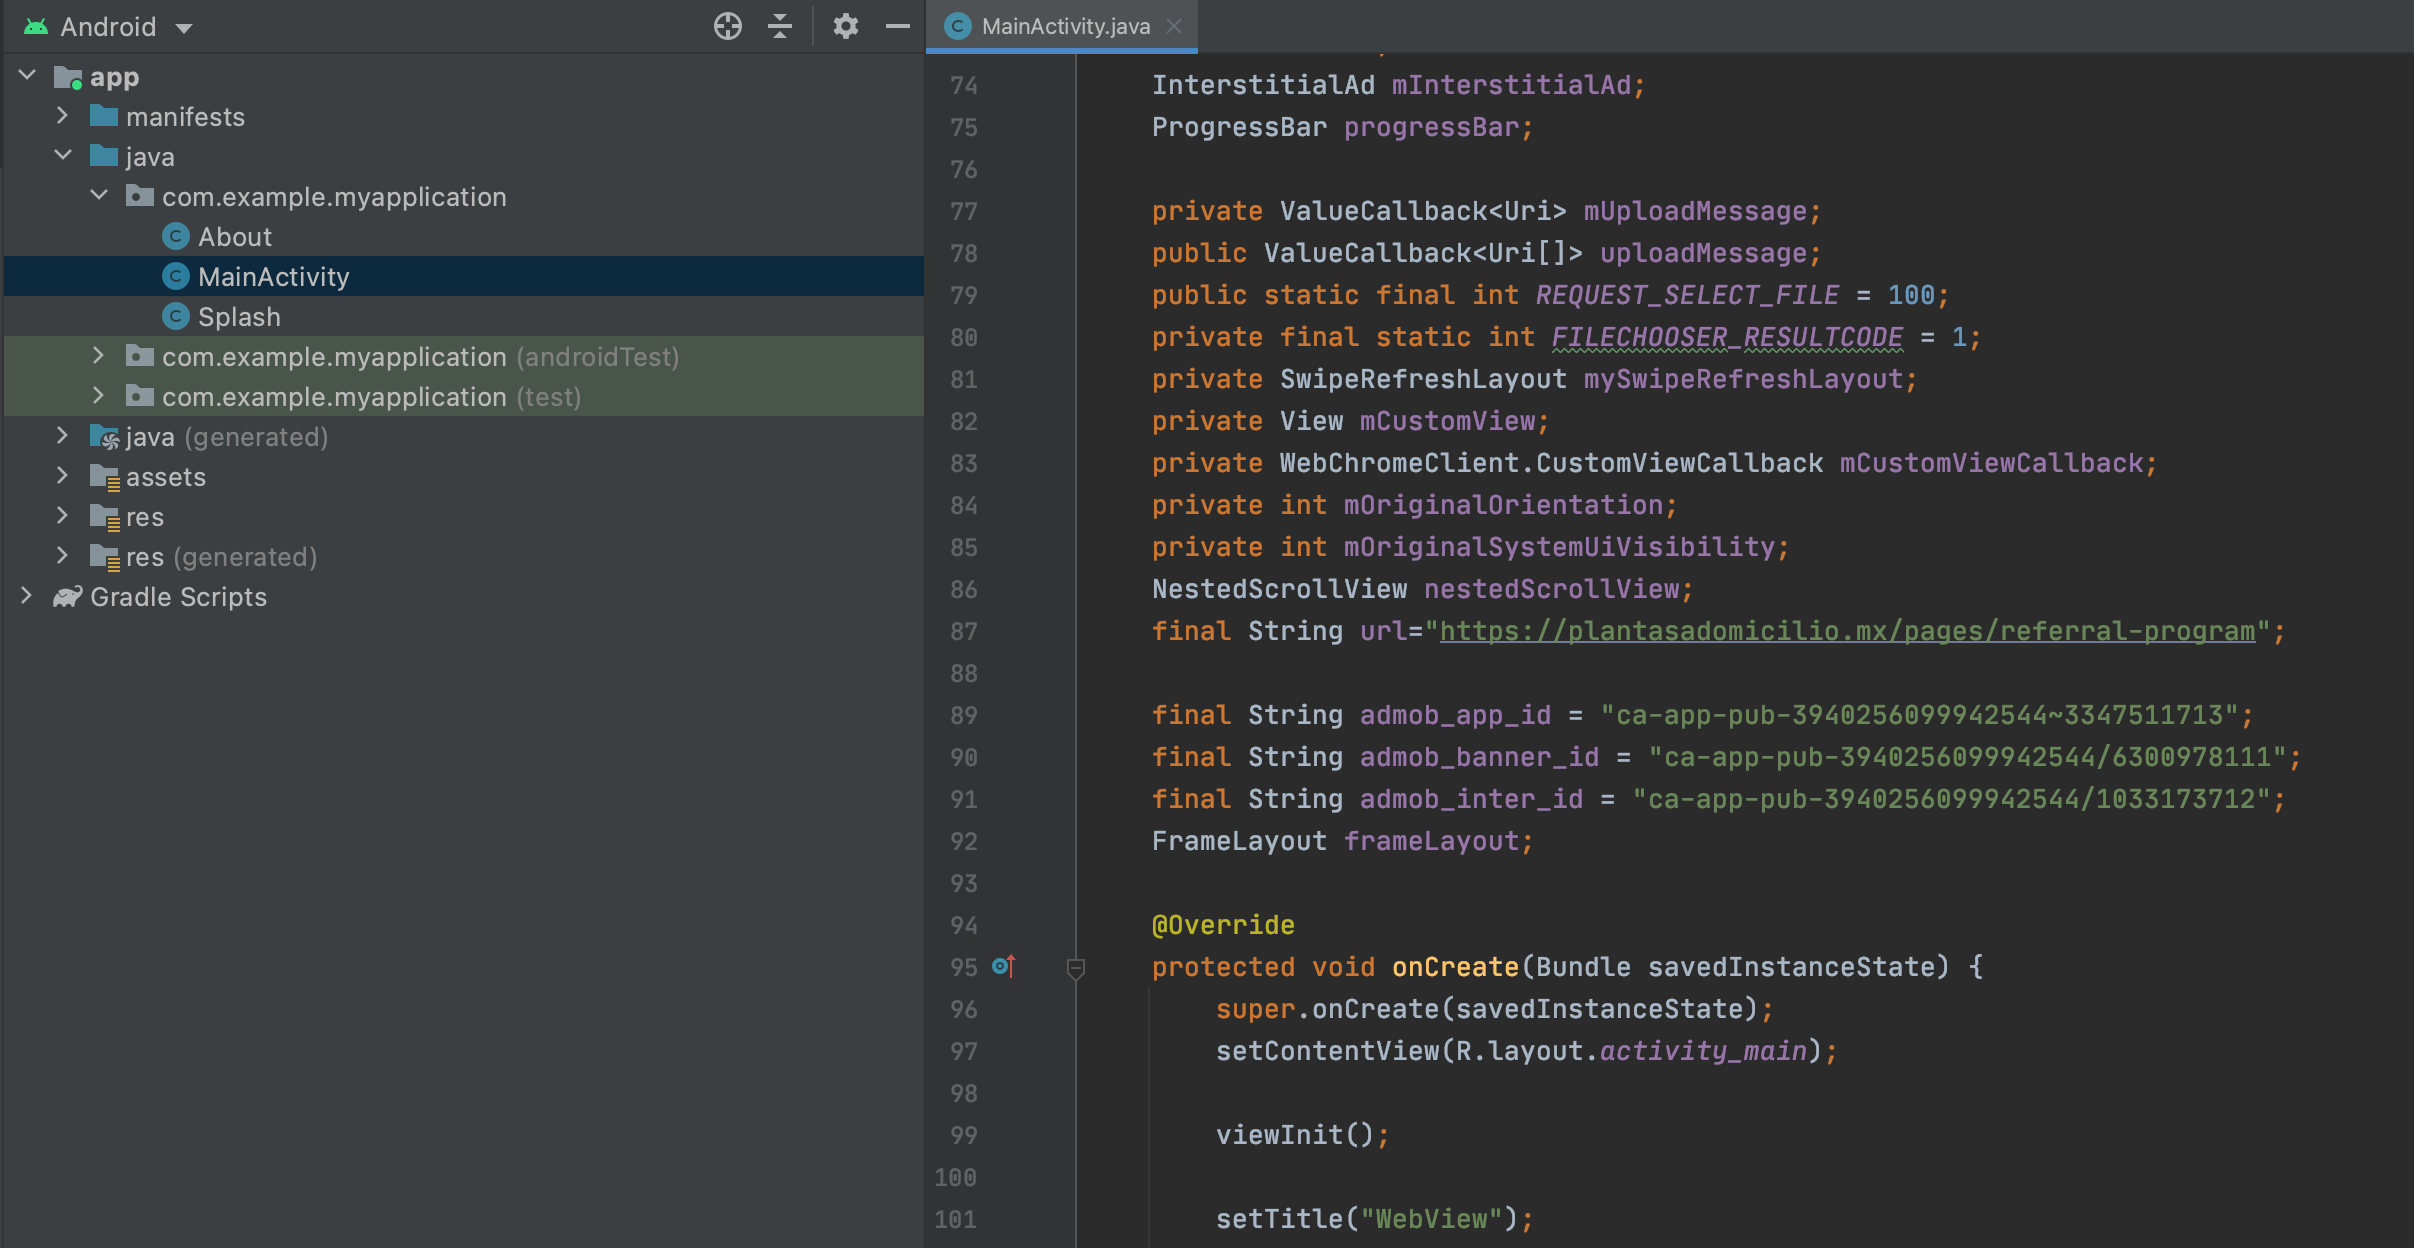
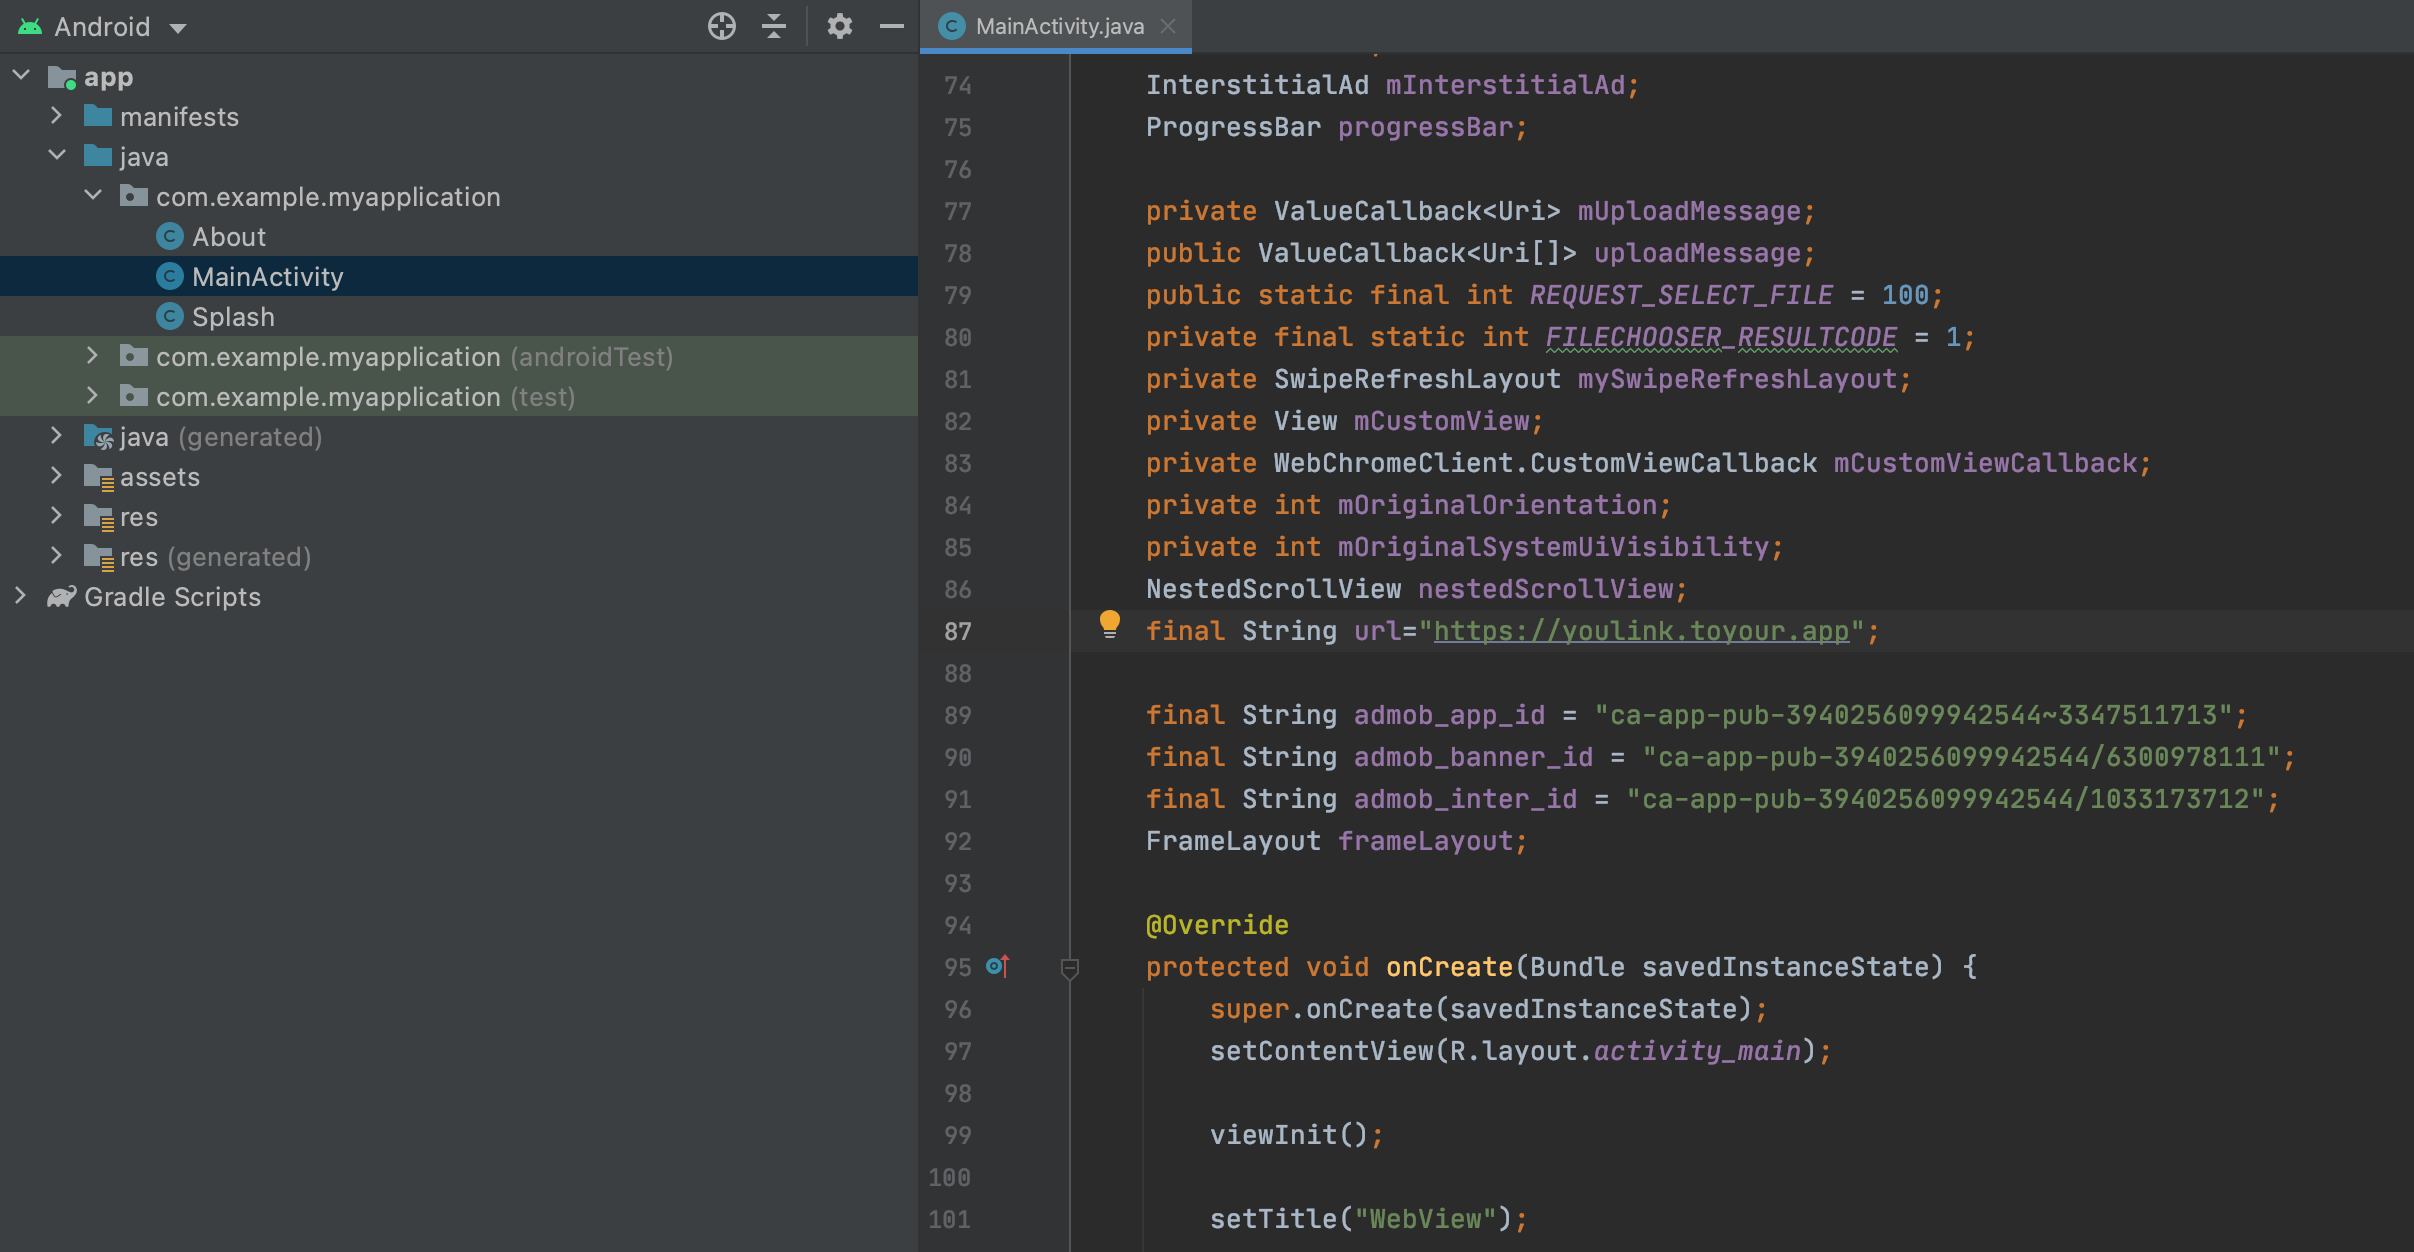
Avenue Growth sample

diff --git a/app/src/main/java/com/example/myapplication/MainActivity.java b/app/src/main/java/com/example/myapplication/MainActivity.java
@@ -84,7 +84,7 @@ public class MainActivity extends AppCompatActivity
     private int mOriginalOrientation;
     private int mOriginalSystemUiVisibility;
     NestedScrollView nestedScrollView;
-    final String url="https://plantasadomicilio.mx/pages/referral-program";
+    final String url="https://youlink.toyour.app";
 
     final String admob_app_id = "ca-app-pub-3940256099942544~3347511713";
     final String admob_banner_id = "ca-app-pub-3940256099942544/6300978111";
